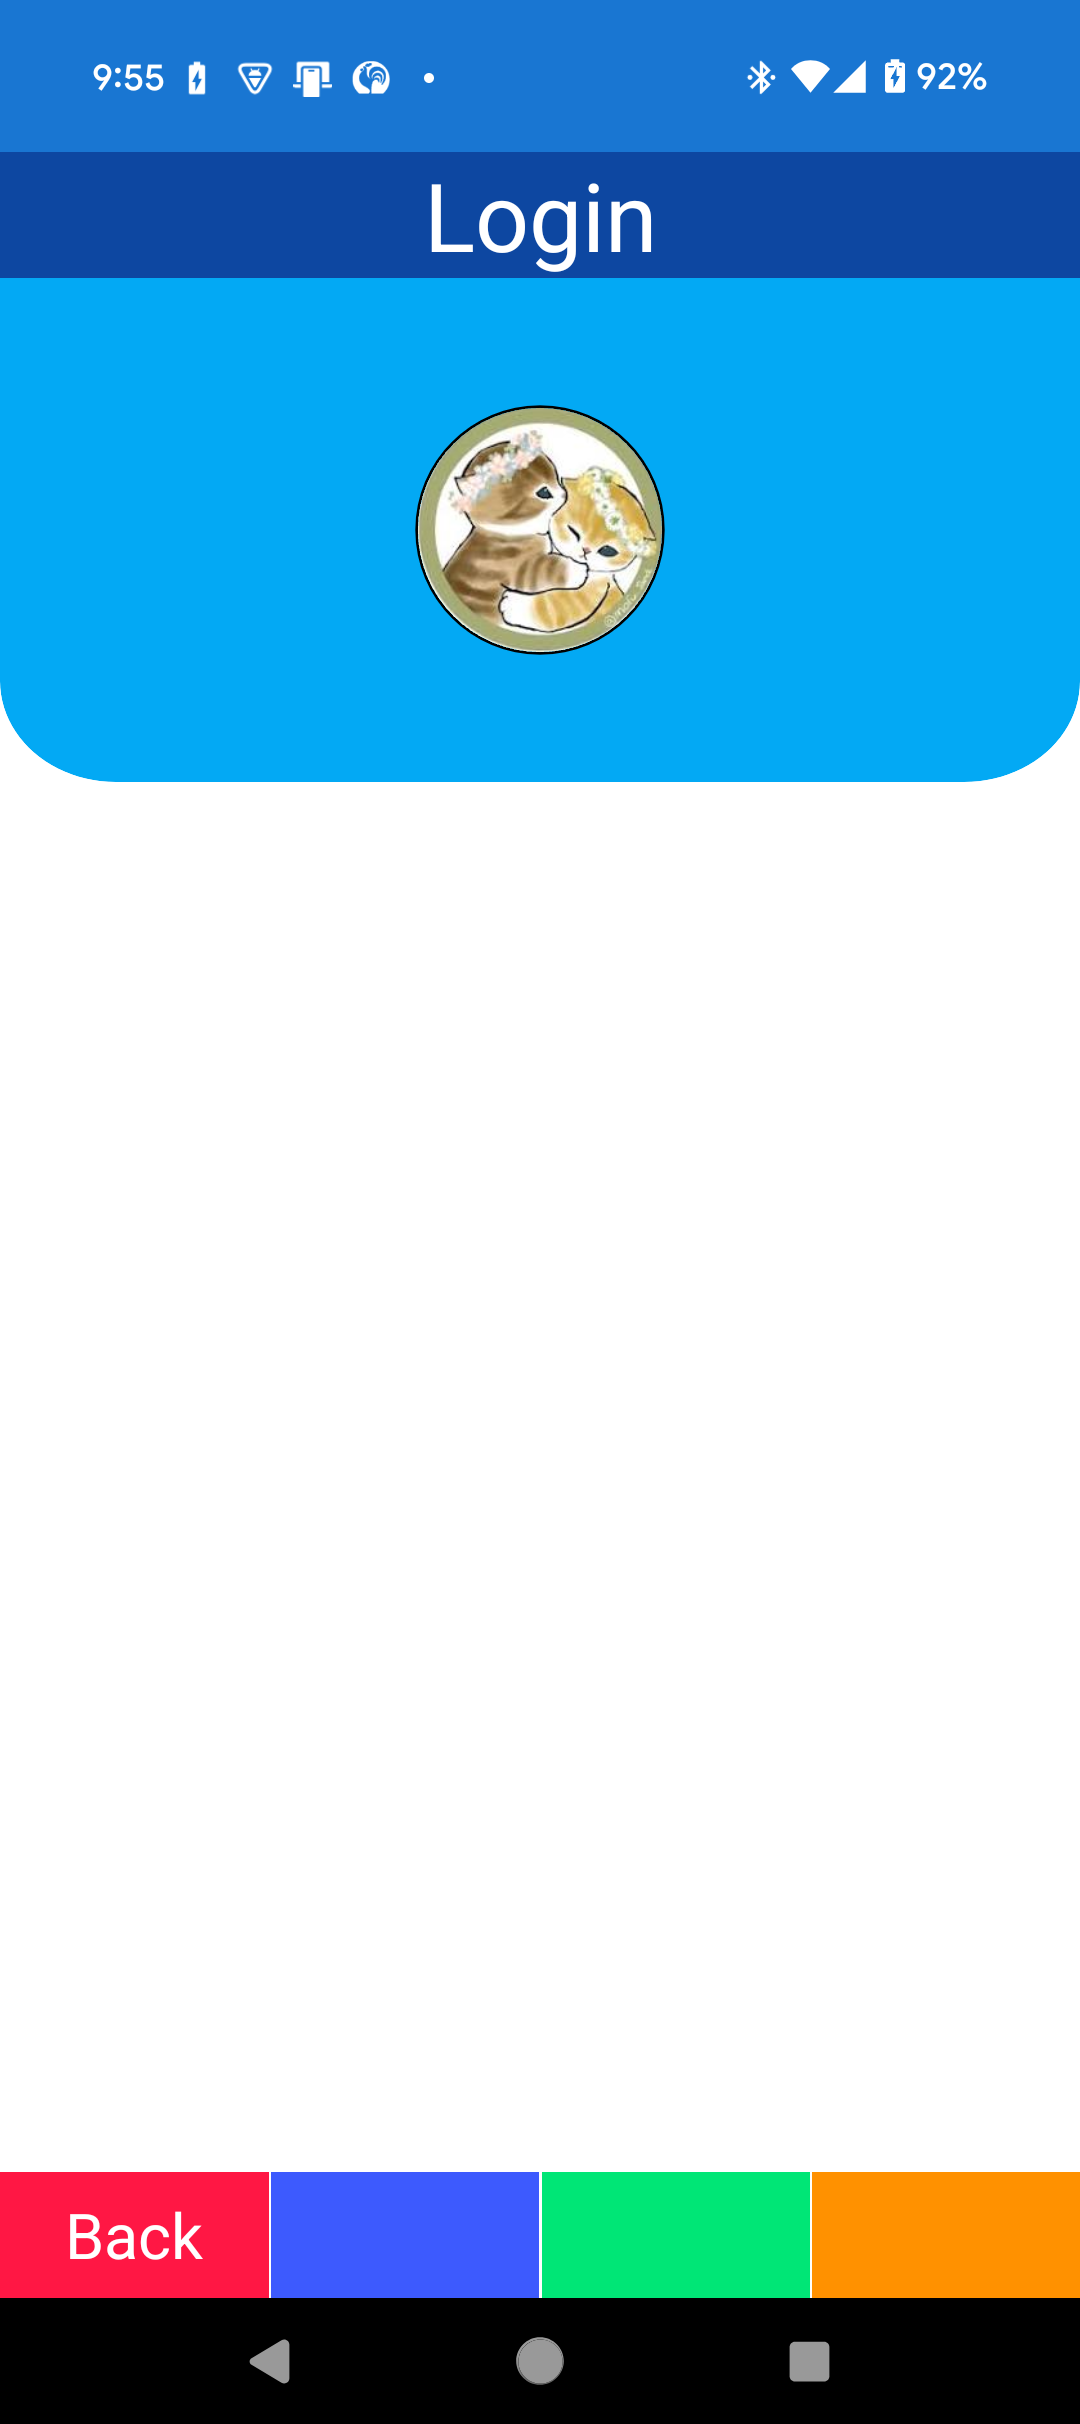
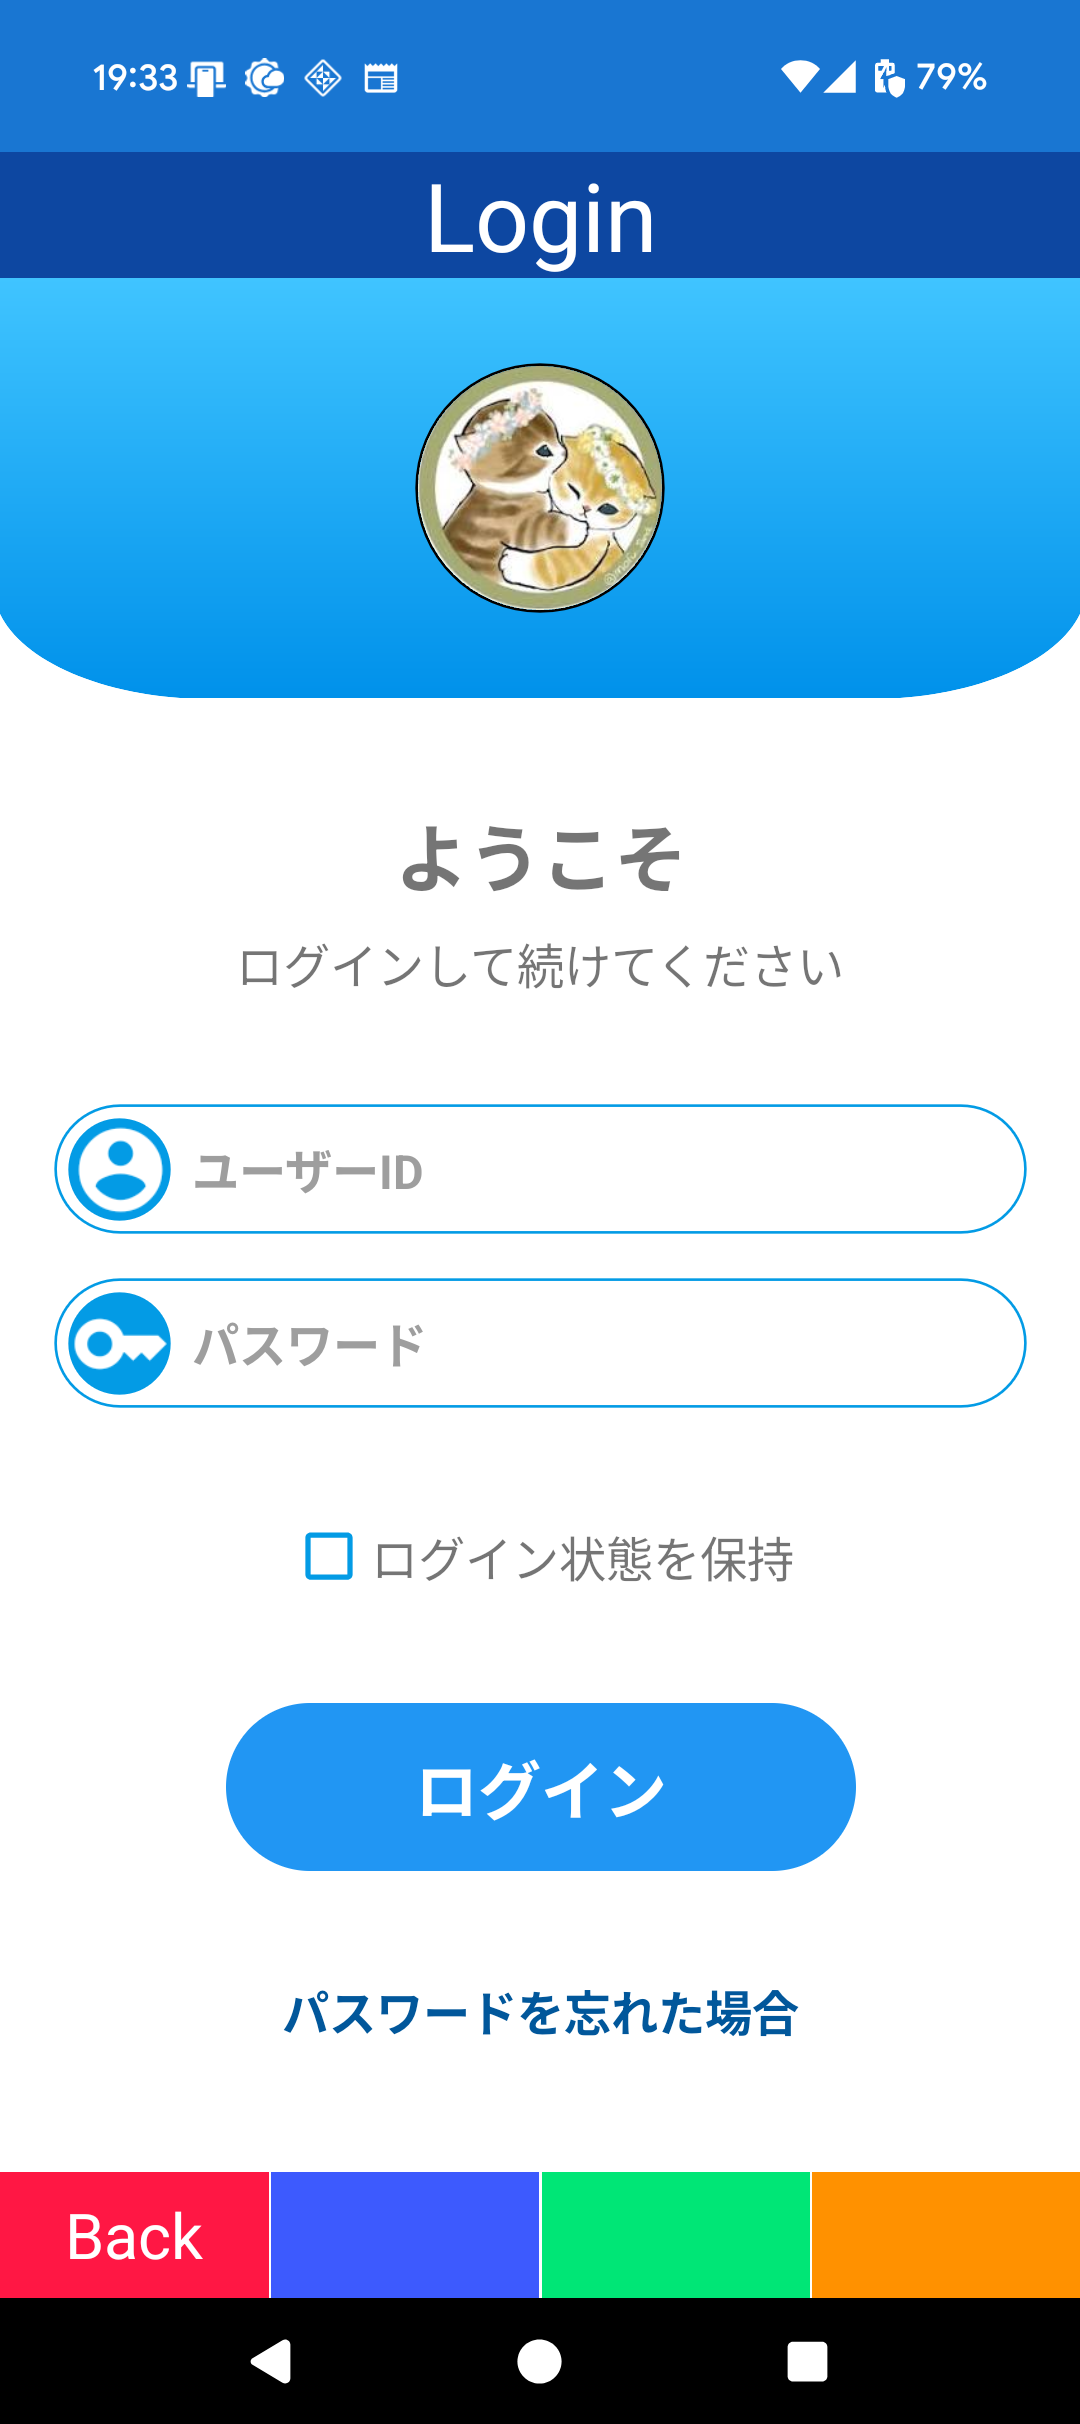
Update

diff --git a/Works3/Template/Template.MobileApp/Modules/UI/UILoginView.xaml b/Works3/Template/Template.MobileApp/Modules/UI/UILoginView.xaml
@@ -3,7 +3,10 @@
              xmlns:x="http://schemas.microsoft.com/winfx/2009/xaml"
              xmlns:s="http://smart/maui"
              xmlns:shell="clr-namespace:Template.MobileApp.Shell"
+             xmlns:behaviors="clr-namespace:Template.MobileApp.Behaviors"
+             xmlns:fonts="clr-namespace:Fonts"
              xmlns:module="clr-namespace:Template.MobileApp.Modules.UI"
+             xmlns:effectsView="http://schemas.syncfusion.com/maui/toolkit"
              x:Class="Template.MobileApp.Modules.UI.UILoginView"
              x:DataType="{x:Type module:UILoginViewModel}"
              s:BindingContextResolver.Type="{x:Type module:UILoginViewModel}"
@@ -11,19 +14,219 @@
              shell:ShellProperty.Function1Text="Back"
              shell:ShellProperty.Function1Enabled="True">
 
+    <ContentView.Resources>
+        <ResourceDictionary>
+
+            <!-- Background -->
+            <Style x:Key="TitlePath"
+                   TargetType="Path">
+                <Setter Property="Aspect" Value="Fill" />
+                <Setter Property="StrokeThickness" Value="0" />
+                <Setter Property="Fill">
+                    <LinearGradientBrush StartPoint="0.5,0" EndPoint="0.5,1">
+                        <GradientStop Offset="0.0" Color="{StaticResource LightBlueAccent2}" />
+                        <GradientStop Offset="1.0" Color="{StaticResource LightBlueAccent4}" />
+                    </LinearGradientBrush>
+                </Setter>
+            </Style>
+
+            <Style x:Key="TitleBorder"
+                   TargetType="Border">
+                <Setter Property="WidthRequest" Value="96" />
+                <Setter Property="HeightRequest" Value="96" />
+                <Setter Property="HorizontalOptions" Value="Center" />
+                <Setter Property="VerticalOptions" Value="Center" />
+                <Setter Property="StrokeShape" Value="RoundRectangle 48" />
+            </Style>
+
+            <Style x:Key="TitleImage"
+                   TargetType="Image">
+                <Setter Property="Aspect" Value="AspectFill" />
+            </Style>
+
+            <!-- Layout -->
+            <Style x:Key="LayoutGrid"
+                   TargetType="Grid">
+                <Setter Property="Margin" Value="20" />
+            </Style>
+
+            <!-- Message -->
+            <Style x:Key="MessageLabel"
+                   TargetType="Label">
+                <Setter Property="HorizontalOptions" Value="Center" />
+                <Setter Property="FontSize" Value="28" />
+                <Setter Property="FontAttributes" Value="Bold" />
+            </Style>
+
+            <Style x:Key="SubMessageLabel"
+                   TargetType="Label">
+                <Setter Property="HorizontalOptions" Value="Center" />
+                <Setter Property="FontSize" Value="18" />
+            </Style>
+
+            <!-- Input -->
+            <Style x:Key="InputBorder"
+                   TargetType="Border">
+                <Setter Property="HorizontalOptions" Value="Fill" />
+                <Setter Property="BackgroundColor" Value="Transparent" />
+                <Setter Property="Stroke" Value="{StaticResource LightBlueDarken1}" />
+                <Setter Property="StrokeShape" Value="RoundRectangle 30" />
+            </Style>
+
+            <Style x:Key="InputImageBorder"
+                   TargetType="Border">
+                <Setter Property="WidthRequest" Value="40" />
+                <Setter Property="HeightRequest" Value="40" />
+                <Setter Property="HorizontalOptions" Value="Center" />
+                <Setter Property="VerticalOptions" Value="Center" />
+                <Setter Property="Margin" Value="4" />
+                <Setter Property="BackgroundColor" Value="{StaticResource LightBlueDarken1}" />
+                <Setter Property="StrokeShape" Value="RoundRectangle 20" />
+            </Style>
+
+            <Style x:Key="InputEntry"
+                   TargetType="Entry">
+                <Setter Property="behaviors:EntryOption.NoBorder" Value="True" />
+                <Setter Property="HorizontalOptions" Value="Fill" />
+                <Setter Property="VerticalOptions" Value="Center" />
+                <Setter Property="TextColor" Value="Black" />
+                <Setter Property="PlaceholderColor" Value="{StaticResource GrayDefault}" />
+                <Setter Property="FontSize" Value="18" />
+                <Setter Property="FontAttributes" Value="Bold" />
+            </Style>
+
+            <!-- Keep login -->
+            <Style x:Key="KeepLoginLayout"
+                   TargetType="HorizontalStackLayout">
+                <Setter Property="HorizontalOptions" Value="Center" />
+                <Setter Property="VerticalOptions" Value="Center" />
+            </Style>
+
+            <Style x:Key="KeepLoginCheckBox"
+                   TargetType="CheckBox">
+                <Setter Property="Color" Value="{StaticResource LightBlueDarken1}" />
+            </Style>
+
+            <Style x:Key="KeepLoginLabel"
+                   TargetType="Label">
+                <Setter Property="HorizontalOptions" Value="Center" />
+                <Setter Property="VerticalOptions" Value="Center" />
+                <Setter Property="FontSize" Value="18" />
+            </Style>
+
+            <!-- Login -->
+            <Style x:Key="LoginButton"
+                   TargetType="Button">
+                <Setter Property="WidthRequest" Value="240" />
+                <Setter Property="HeightRequest" Value="64" />
+                <Setter Property="CornerRadius" Value="32" />
+                <Setter Property="TextColor" Value="White" />
+                <Setter Property="BackgroundColor" Value="{StaticResource BlueDefault}" />
+                <Setter Property="FontSize" Value="24" />
+                <Setter Property="FontAttributes" Value="Bold" />
+            </Style>
+
+            <!-- Forget password -->
+            <Style x:Key="ForgetPasswordEffect"
+                   TargetType="effectsView:SfEffectsView">
+                <Setter Property="HorizontalOptions" Value="Center" />
+                <Setter Property="VerticalOptions" Value="Center" />
+                <Setter Property="TouchDownEffects" Value="Ripple" />
+            </Style>
+
+            <Style x:Key="ForgetPasswordLabel"
+                   TargetType="Label">
+                <Setter Property="HorizontalOptions" Value="Center" />
+                <Setter Property="VerticalTextAlignment" Value="Center" />
+                <Setter Property="TextColor" Value="{StaticResource LightBlueDarken4}" />
+                <Setter Property="FontSize" Value="18" />
+                <Setter Property="FontAttributes" Value="Bold" />
+            </Style>
+
+        </ResourceDictionary>
+    </ContentView.Resources>
+
     <Grid Style="{StaticResource FillGrid}"
-          RowDefinitions="192,*">
+          RowDefinitions="160,*">
 
-        <Path Aspect="Fill" Data="M0 0 L112 0 L112 48 A12 12 90 0 1 100 60 L12 60 A12 12 90 0 1 0 48 L0 0 Z" Fill="#03a9f4" StrokeThickness="0" />
+        <Path Grid.Row="0"
+              Style="{StaticResource TitlePath}"
+              Data="M0 0 L120 0 L120 48 A16 24 90 0 1 100 60 L20 60 A16 24 90 0 1 0 48 L0 0 Z" />
 
-        <VerticalStackLayout>
-            <Border WidthRequest="96" HeightRequest="96"
-                    Margin="0,48,0,0" Padding="0"
-                    HorizontalOptions="Center" StrokeShape="RoundRectangle 48">
-                <Image Source="profile.jpg"
-                       Aspect="AspectFill" />
+        <Border Grid.Row="0"
+                Style="{StaticResource TitleBorder}">
+            <Image Style="{StaticResource TitleImage}"
+                   Source="profile.jpg" />
+        </Border>
+
+        <Grid Grid.Row="1"
+              Style="{StaticResource LayoutGrid}"
+              RowDefinitions="2*,Auto,8,Auto,40,Auto,16,Auto,40,Auto,40,Auto,40,Auto,3*">
+
+            <Label Grid.Row="1"
+                   Style="{StaticResource MessageLabel}"
+                   Text="ようこそ" />
+
+            <Label Grid.Row="3"
+                   Style="{StaticResource SubMessageLabel}"
+                   Text="ログインして続けてください" />
+
+            <Border Grid.Row="5"
+                    Style="{StaticResource InputBorder}">
+                <Grid ColumnDefinitions="Auto,*,16">
+                    <Border Grid.Column="0"
+                            Style="{StaticResource InputImageBorder}">
+                        <Image>
+                            <Image.Source>
+                                <FontImageSource Glyph="{x:Static fonts:MaterialIcons.Account_circle}"
+                                                 FontFamily="MaterialIcons"
+                                                 Color="White" />
+                            </Image.Source>
+                        </Image>
+                    </Border>
+                    <Entry Grid.Column="1"
+                           Style="{StaticResource InputEntry}"
+                           Placeholder="ユーザーID" />
+                </Grid>
             </Border>
-        </VerticalStackLayout>
+
+            <Border Grid.Row="7"
+                    Style="{StaticResource InputBorder}">
+                <Grid ColumnDefinitions="Auto,*,16">
+                    <Border Grid.Column="0"
+                            Style="{StaticResource InputImageBorder}">
+                        <Image>
+                            <Image.Source>
+                                <FontImageSource Glyph="{x:Static fonts:MaterialIcons.Key}"
+                                                 FontFamily="MaterialIcons"
+                                                 Color="White" />
+                            </Image.Source>
+                        </Image>
+                    </Border>
+                    <Entry Grid.Column="1"
+                           Style="{StaticResource InputEntry}"
+                           IsPassword="True" Placeholder="パスワード" />
+                </Grid>
+            </Border>
+
+            <HorizontalStackLayout Grid.Row="9"
+                                   Style="{StaticResource KeepLoginLayout}">
+                <CheckBox Style="{StaticResource KeepLoginCheckBox}" />
+                <Label Style="{StaticResource KeepLoginLabel}"
+                       Text="ログイン状態を保持" />
+            </HorizontalStackLayout>
+
+            <Button Grid.Row="11"
+                    Style="{StaticResource LoginButton}"
+                    Text="ログイン" />
+
+            <effectsView:SfEffectsView Grid.Row="13"
+                                       Style="{StaticResource ForgetPasswordEffect}">
+                <Label Style="{StaticResource ForgetPasswordLabel}"
+                       Text="パスワードを忘れた場合" />
+            </effectsView:SfEffectsView>
+
+        </Grid>
 
     </Grid>
 

diff --git a/Works3/Template/Template.MobileApp/Behaviors/EntryOption.android.cs b/Works3/Template/Template.MobileApp/Behaviors/EntryOption.android.cs
@@ -1,5 +1,6 @@
 namespace Template.MobileApp.Behaviors;
 
+using Android.Content.Res;
 using Android.Text;
 using Android.Views;
 using Android.Views.InputMethods;
@@ -34,6 +35,13 @@ public static partial class EntryOption
             EditorHandler.Mapper.AppendToMapping(SelectAllOnFocusProperty.PropertyName, static (handler, _) => UpdateSelectAllOnFocus(handler.PlatformView, (Editor)handler.VirtualView));
         }
 
+        // NoBorder
+        if (options.NoBorder)
+        {
+            EntryHandler.Mapper.AppendToMapping(NoBorderProperty.PropertyName, static (handler, _) => UpdateHandleNoBorder(handler.PlatformView, (Entry)handler.VirtualView));
+            EditorHandler.Mapper.AppendToMapping(NoBorderProperty.PropertyName, static (handler, _) => UpdateHandleNoBorder(handler.PlatformView, (Editor)handler.VirtualView));
+        }
+
         // InputFilter
         if (options.InputFilter)
         {
@@ -52,6 +60,12 @@ public static partial class EntryOption
     {
         var value = GetSelectAllOnFocus(element);
         editText.SetSelectAllOnFocus(value);
+    }
+
+    private static void UpdateHandleNoBorder(TextView editText, BindableObject element)
+    {
+        var value = GetNoBorder(element);
+        editText.BackgroundTintList = value ? ColorStateList.ValueOf(Android.Graphics.Color.Transparent) : null;
     }
 
     private static void UpdateInputFilter(TextView editText, BindableObject element)

diff --git a/Works3/Template/Template.MobileApp/Behaviors/BehaviorOptions.cs b/Works3/Template/Template.MobileApp/Behaviors/BehaviorOptions.cs
@@ -24,5 +24,7 @@ public sealed class BehaviorOptions
 
     public bool SelectAllOnFocus { get; set; } = true;
 
+    public bool NoBorder { get; set; } = true;
+
     public bool InputFilter { get; set; } = true;
 }

diff --git a/Works3/Template/README-ja.md b/Works3/Template/README-ja.md
@@ -9,21 +9,21 @@ Template project for MAUI.
 
 # イメージ
 
-<img width="25%" src="Document/Device_BLE.png" />
-<img width="25%" src="Document/Device_NFC.png" />
-<img width="25%" src="Document/Device_Activity.png" />
-<img width="25%" src="Document/Sample_CV.png" />
-<img width="25%" src="Document/UI_Deck.png" />
-<img width="25%" src="Document/UI_Load.png" />
-<img width="25%" src="Document/UI_Login.png" />
-<img width="25%" src="Document/UI_Mail.png" />
-<img width="25%" src="Document/UI_Meter.png" />
-<img width="25%" src="Document/UI_Money.png" />
-<img width="25%" src="Document/UI_Pos.png" />
-<img width="25%" src="Document/UI_Radar.png" />
-<img width="25%" src="Document/UI_Social.png" />
-<img width="25%" src="Document/UI_Timeline.png" />
-<img width="25%" src="Document/UI_TreeMap.png" />
+<img style="width: 25%;" src="Document/Device_BLE.png" />
+<img style="width: 25%;" src="Document/Device_NFC.png" />
+<img style="width: 25%;" src="Document/Device_Activity.png" />
+<img style="width: 25%;" src="Document/Sample_CV.png" />
+<img style="width: 25%;" src="Document/UI_Deck.png" />
+<img style="width: 25%;" src="Document/UI_Load.png" />
+<img style="width: 25%;" src="Document/UI_Login.png" />
+<img style="width: 25%;" src="Document/UI_Mail.png" />
+<img style="width: 25%;" src="Document/UI_Meter.png" />
+<img style="width: 25%;" src="Document/UI_Money.png" />
+<img style="width: 25%;" src="Document/UI_Pos.png" />
+<img style="width: 25%;" src="Document/UI_Radar.png" />
+<img style="width: 25%;" src="Document/UI_Social.png" />
+<img style="width: 25%;" src="Document/UI_Timeline.png" />
+<img style="width: 25%;" src="Document/UI_TreeMap.png" />
 
 # TODO
 

diff --git a/Works3/Template/README.md b/Works3/Template/README.md
@@ -6,21 +6,21 @@ Template project for MAUI.
 
 # Image
 
-<img width="25%" src="Document/Device_BLE.png" />
-<img width="25%" src="Document/Device_NFC.png" />
-<img width="25%" src="Document/Device_Activity.png" />
-<img width="25%" src="Document/Sample_CV.png" />
-<img width="25%" src="Document/UI_Deck.png" />
-<img width="25%" src="Document/UI_Load.png" />
-<img width="25%" src="Document/UI_Login.png" />
-<img width="25%" src="Document/UI_Mail.png" />
-<img width="25%" src="Document/UI_Meter.png" />
-<img width="25%" src="Document/UI_Money.png" />
-<img width="25%" src="Document/UI_Pos.png" />
-<img width="25%" src="Document/UI_Radar.png" />
-<img width="25%" src="Document/UI_Social.png" />
-<img width="25%" src="Document/UI_Timeline.png" />
-<img width="25%" src="Document/UI_TreeMap.png" />
+<img style="width: 25%;" src="Document/Device_BLE.png" />
+<img style="width: 25%;" src="Document/Device_NFC.png" />
+<img style="width: 25%;" src="Document/Device_Activity.png" />
+<img style="width: 25%;" src="Document/Sample_CV.png" />
+<img style="width: 25%;" src="Document/UI_Deck.png" />
+<img style="width: 25%;" src="Document/UI_Load.png" />
+<img style="width: 25%;" src="Document/UI_Login.png" />
+<img style="width: 25%;" src="Document/UI_Mail.png" />
+<img style="width: 25%;" src="Document/UI_Meter.png" />
+<img style="width: 25%;" src="Document/UI_Money.png" />
+<img style="width: 25%;" src="Document/UI_Pos.png" />
+<img style="width: 25%;" src="Document/UI_Radar.png" />
+<img style="width: 25%;" src="Document/UI_Social.png" />
+<img style="width: 25%;" src="Document/UI_Timeline.png" />
+<img style="width: 25%;" src="Document/UI_TreeMap.png" />
 
 # TODO
 
